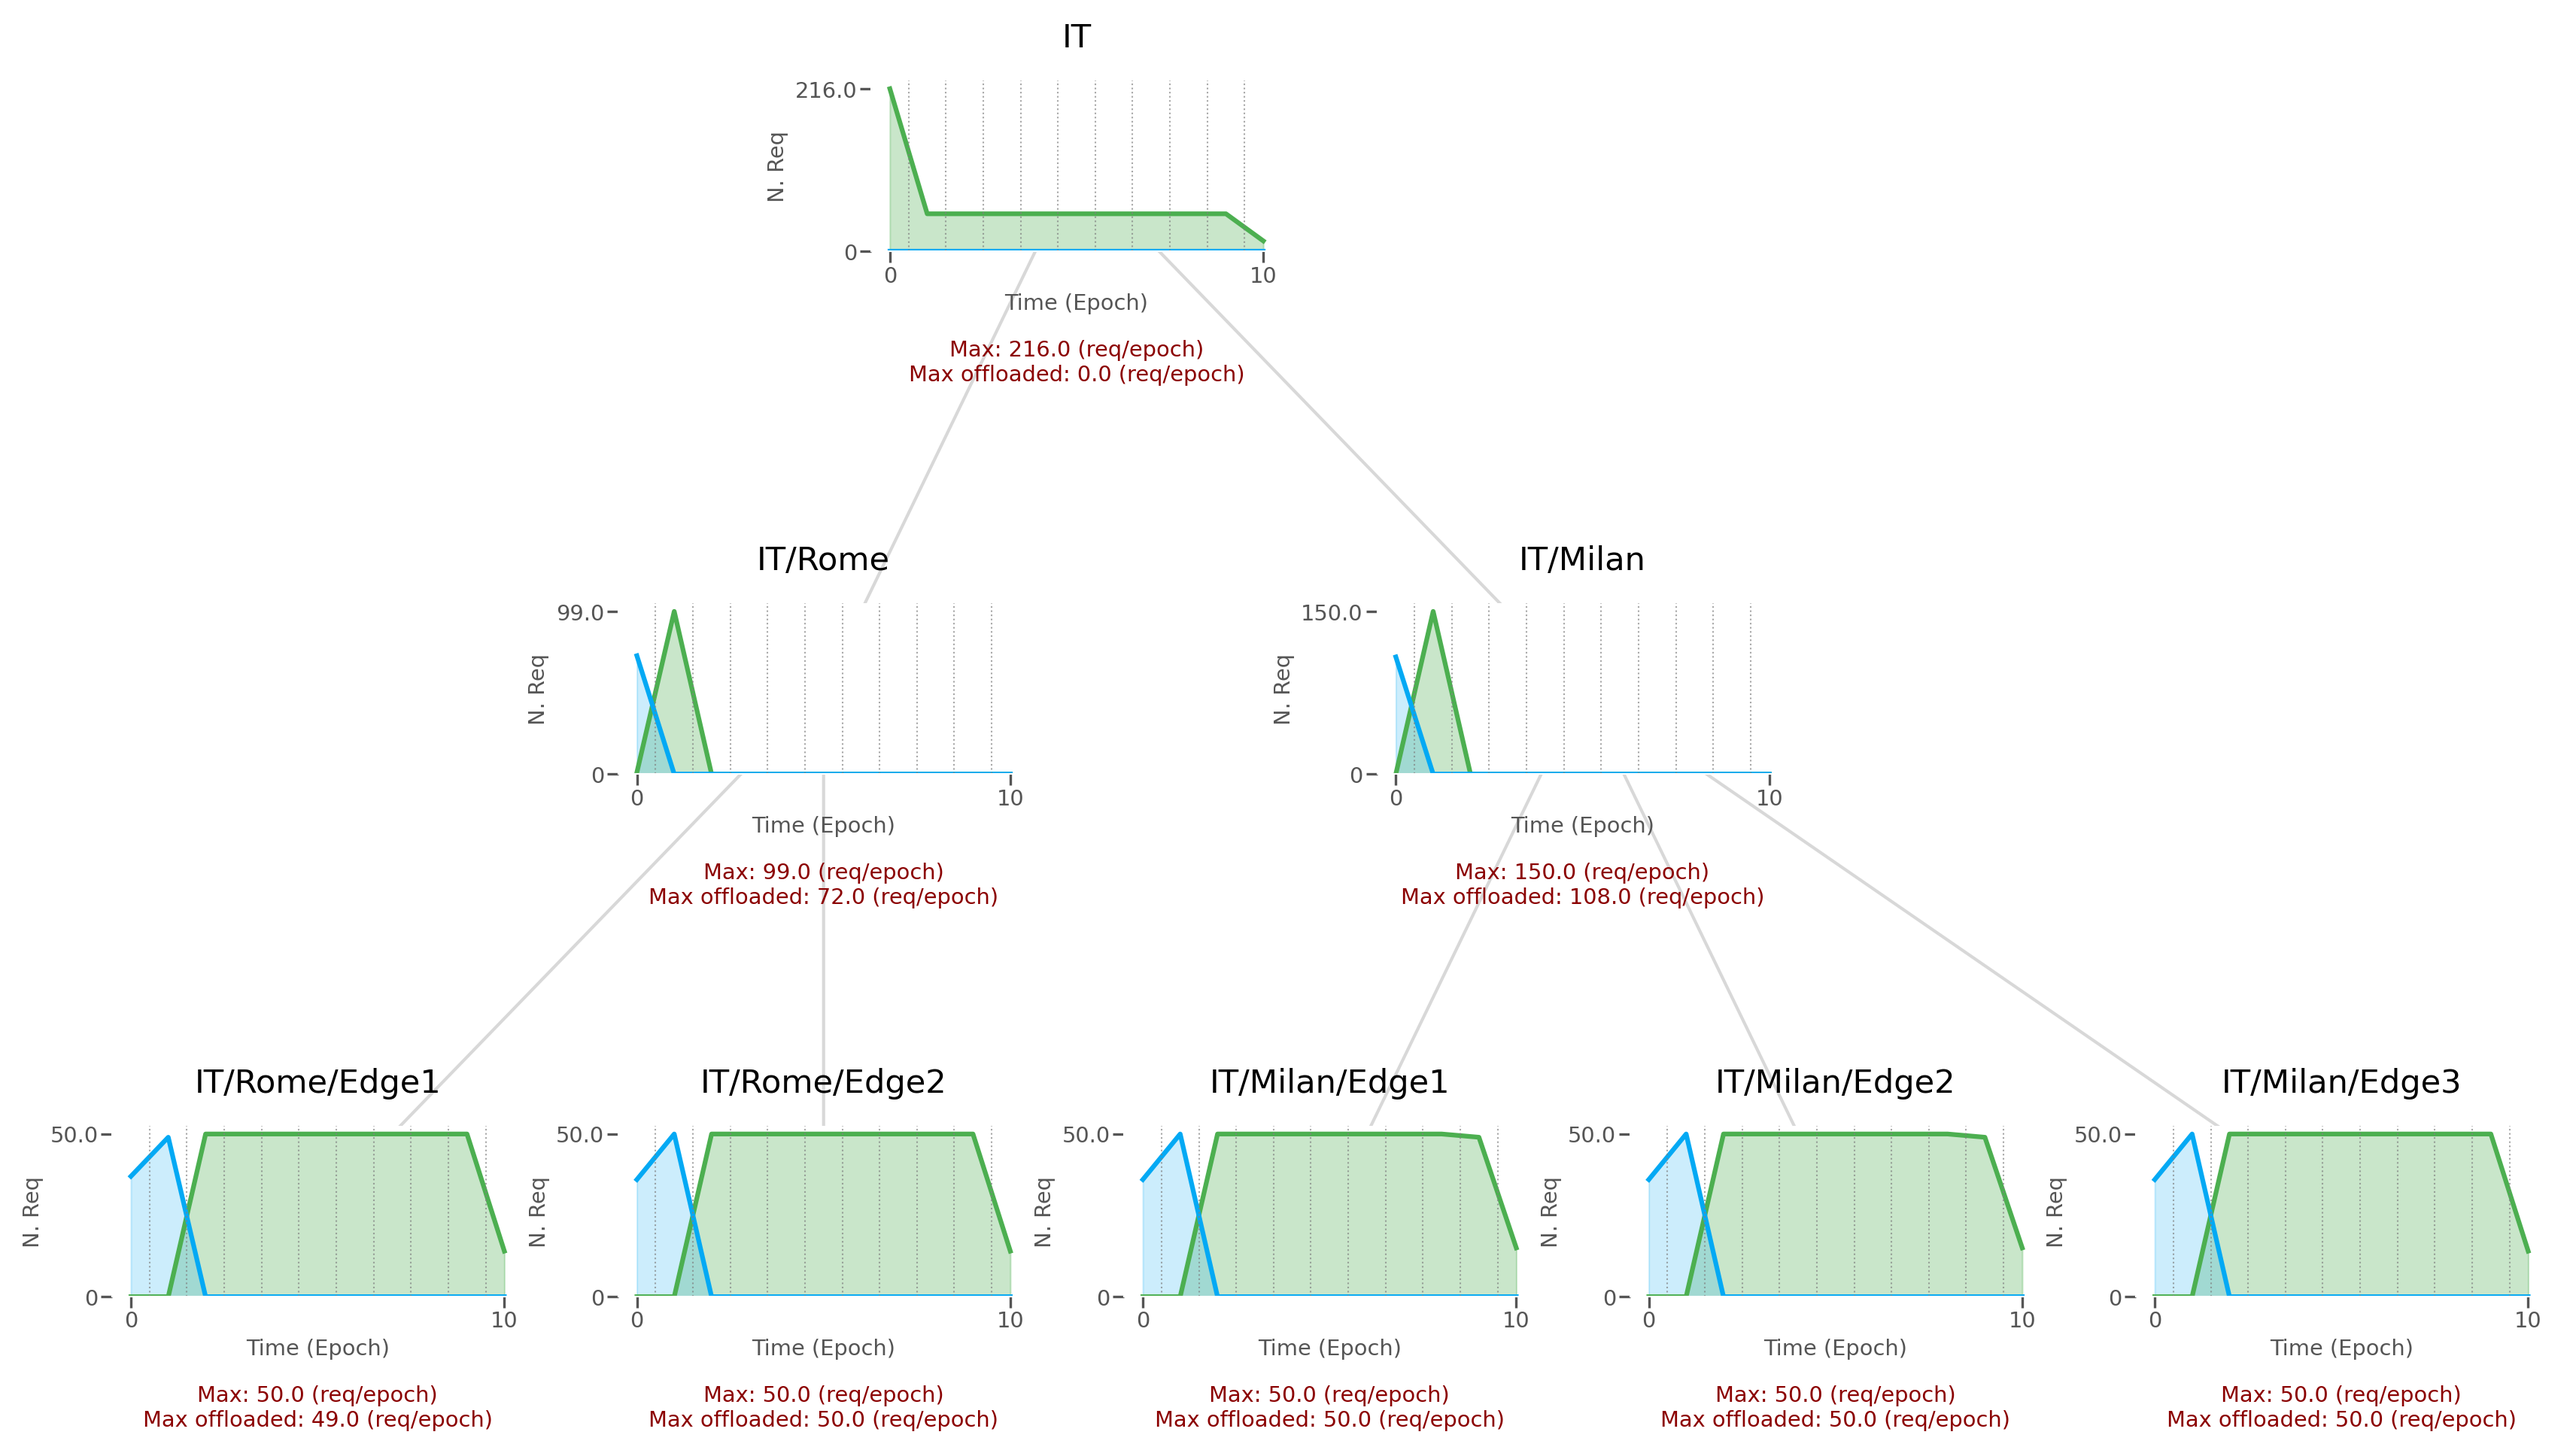
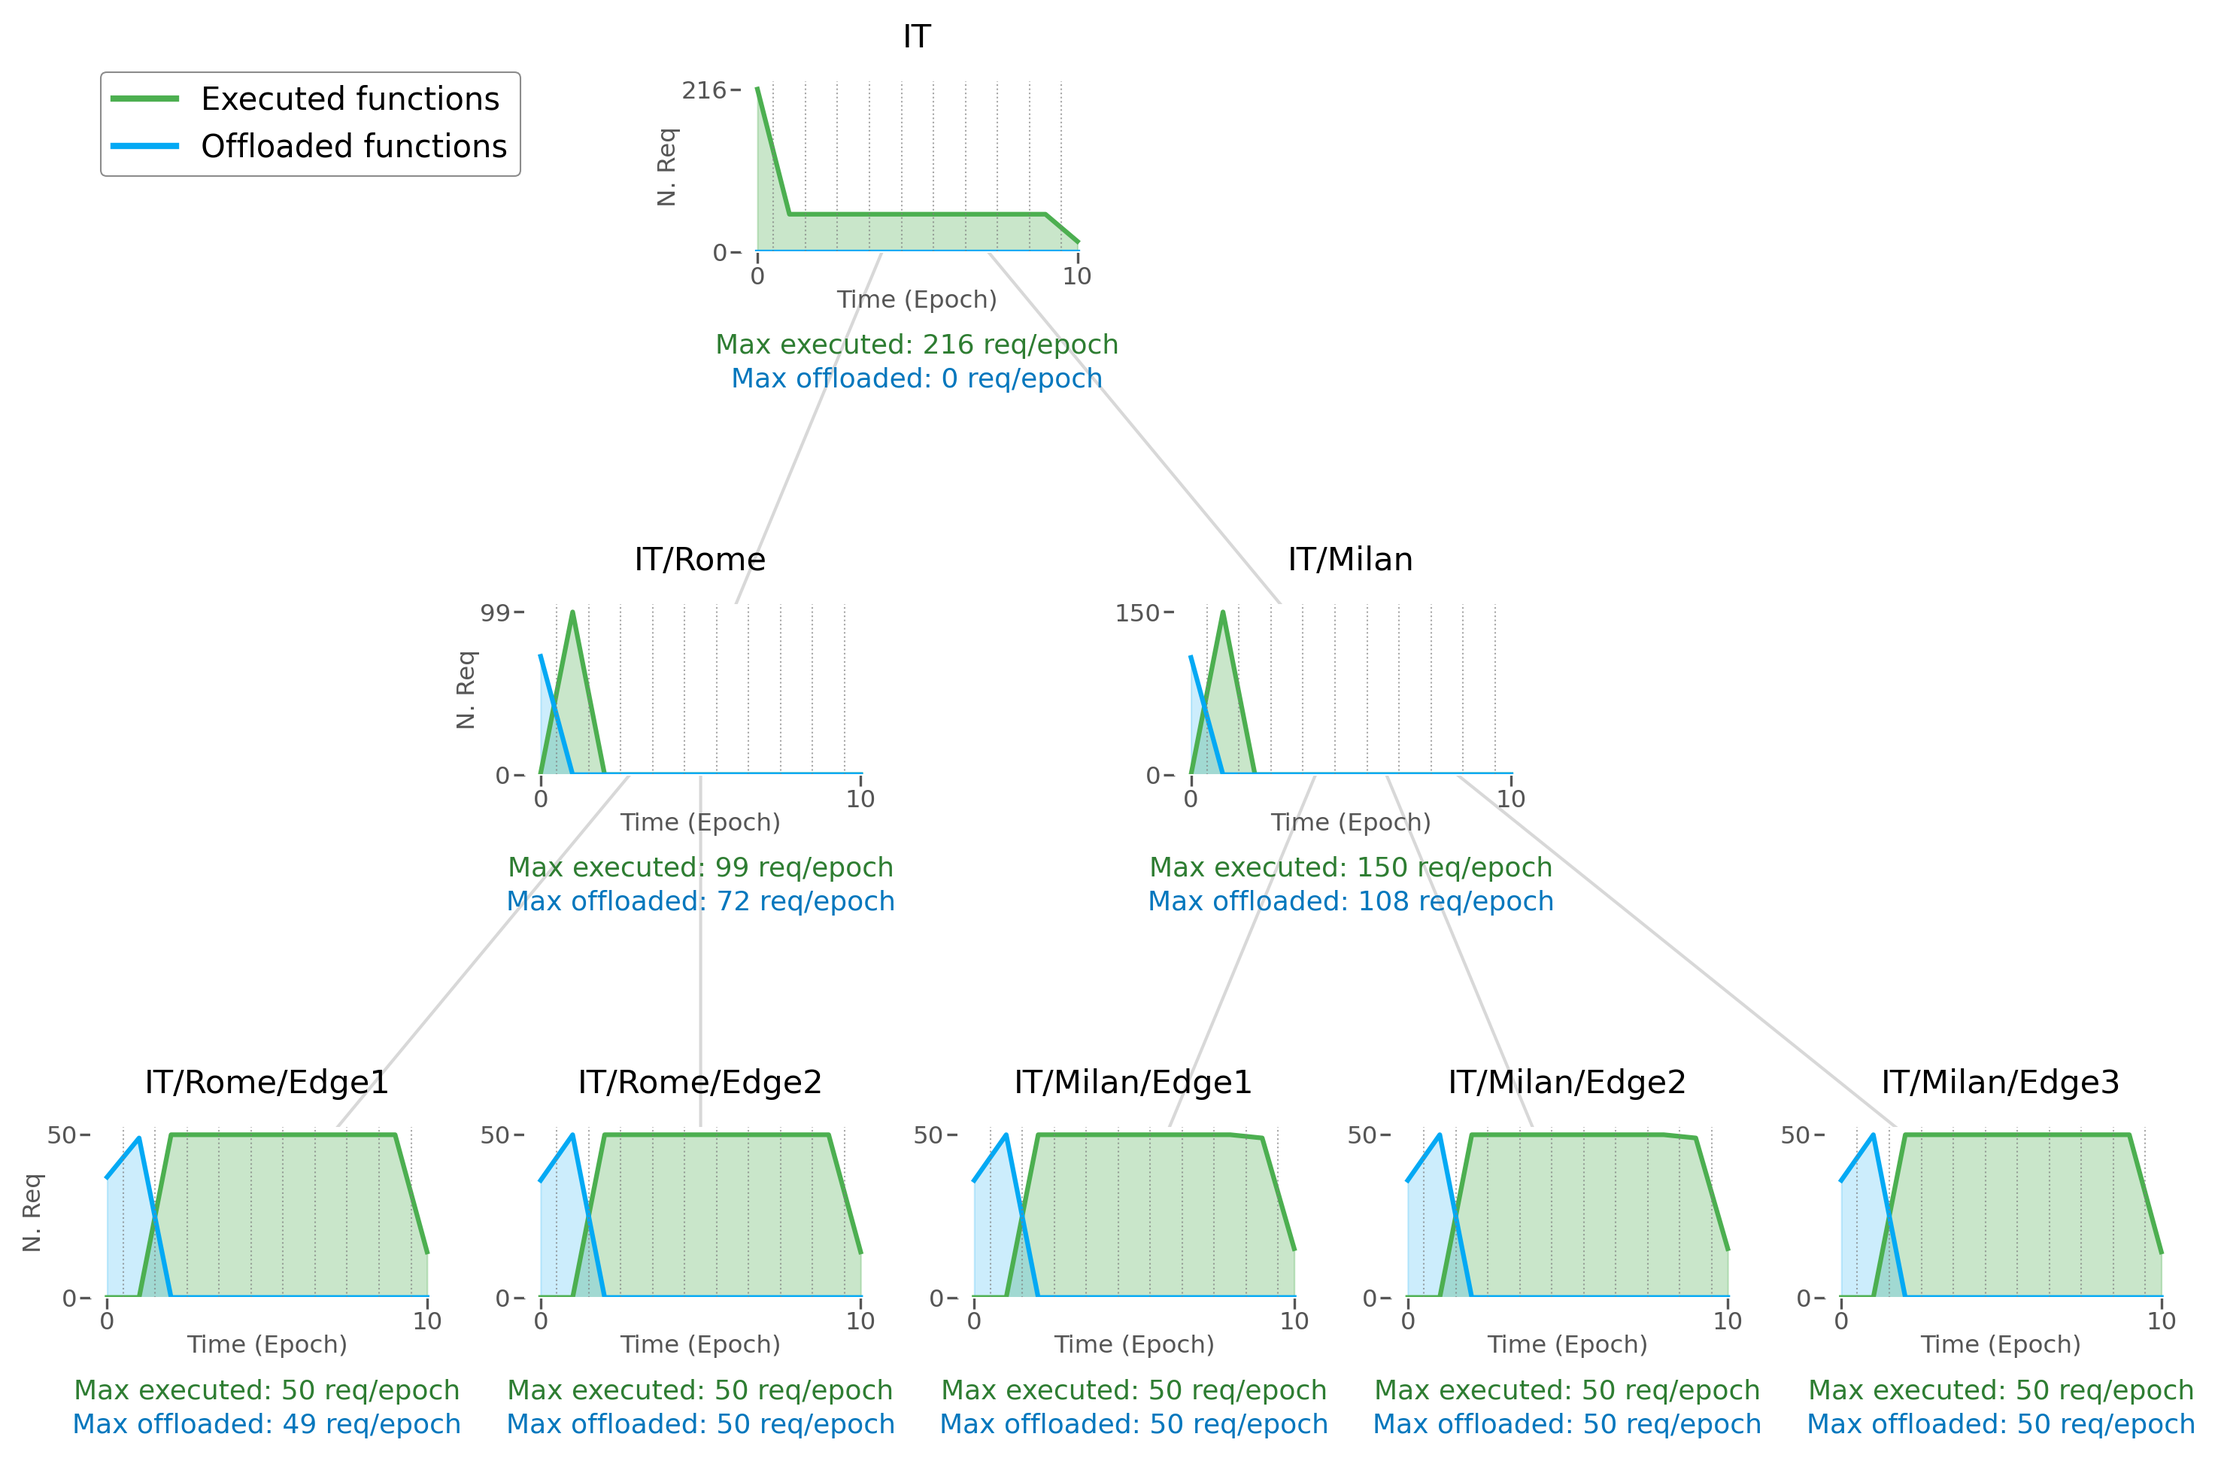
Improve tree plot

diff --git a/ermes_benchmark/convergence_test/code/plots/topology.py b/ermes_benchmark/convergence_test/code/plots/topology.py
@@ -1,9 +1,12 @@
-import pandas as pd
-import numpy as np
-import networkx as nx
-import matplotlib.pyplot as plt
 import itertools
 from collections import defaultdict
+
+import matplotlib.pyplot as plt
+import networkx as nx
+import numpy as np
+import pandas as pd
+from matplotlib.lines import Line2D
+
 
 def compute_path(tree: dict, start_node: int, end_node: int) -> list[int]:
     G = nx.Graph()  # undirected graph
@@ -17,8 +20,8 @@ def compute_path(tree: dict, start_node: int, end_node: int) -> list[int]:
     except (nx.NetworkXNoPath, nx.NodeNotFound):
         return []
 
-def plot_tree_with_sparklines(tree: dict, domains: dict, dfs: list[pd.DataFrame], normalization: int):
 
+def plot_tree_with_sparklines(tree: dict, domains: dict, dfs: list[pd.DataFrame], normalization: int):
     # --- 1. Pre-elaborazione Dati per Sparklines ---
     try:
         df_combined = pd.concat(dfs, ignore_index=True)
@@ -33,7 +36,7 @@ def plot_tree_with_sparklines(tree: dict, domains: dict, dfs: list[pd.DataFrame]
     except Exception as e:
         print(f"Errore nella pulizia degli host: assicurati che siano presenti etichette numeriche. {e}")
         return
-        
+
     all_nodes = df_combined['ExecHost'].str.split('.').str[-1].str.split(':').str[0].astype(int).unique()
     all_groups = df_combined['Group'].unique()
 
@@ -58,10 +61,10 @@ def plot_tree_with_sparklines(tree: dict, domains: dict, dfs: list[pd.DataFrame]
 
     # Riempie i valori mancanti con 0
     task_counts['TaskCount'] = task_counts['TaskCount'].fillna(0).astype(int)
-    task_counts['TaskCount'] = task_counts['TaskCount'] / normalization # Normalizzazione
-    
-    paths = defaultdict(list)   
-    
+    task_counts['TaskCount'] = task_counts['TaskCount'] / normalization  # Normalizzazione
+
+    paths = defaultdict(list)
+
     # Calcola i percorsi unici tra nodi di Entry e nodi di Exec
     for _, row in df_combined.iterrows():
         entry_node = row['Node_Entry']
@@ -73,16 +76,16 @@ def plot_tree_with_sparklines(tree: dict, domains: dict, dfs: list[pd.DataFrame]
             continue
 
         if (entry_node, exec_node) not in paths:
-            paths[(entry_node,exec_node)]= compute_path(tree, entry_node, exec_node)
+            paths[(entry_node, exec_node)] = compute_path(tree, entry_node, exec_node)
 
-        path = paths[(entry_node,exec_node)]
+        path = paths[(entry_node, exec_node)]
         for node in path:
             if node == short_exec_host:
                 continue
             mask = (task_counts['Node'] == node) & (task_counts['Group'] == group)
             task_counts.loc[mask, 'indirectLoad'] = task_counts.loc[mask, 'indirectLoad'] + 1
 
-    task_counts['indirectLoad'] = task_counts['indirectLoad'] / normalization # Normalizzazione
+    task_counts['indirectLoad'] = task_counts['indirectLoad'] / normalization  # Normalizzazione
 
     sparkline_data = task_counts.pivot_table(
         index='Node',
@@ -94,10 +97,10 @@ def plot_tree_with_sparklines(tree: dict, domains: dict, dfs: list[pd.DataFrame]
     sparkline_data = sparkline_data.reindex(sorted(sparkline_data.columns), axis=1)
     max_count = sparkline_data.values.max()
     if max_count == 0:
-        max_count = 1 
-    
-    # --- 2. Creazione del Grafo e Posizionamento ---
-    
+        max_count = 1
+
+        # --- 2. Creazione del Grafo e Posizionamento ---
+
     G = nx.DiGraph()
     for parent, children in tree.items():
         for child in children:
@@ -118,28 +121,28 @@ def plot_tree_with_sparklines(tree: dict, domains: dict, dfs: list[pd.DataFrame]
         pos = {node: (x, -y) for node, (x, y) in pos.items()}
 
     # --- 3. Disegno del Grafico e delle Sparklines ---
-    
+
     fig_scale = 1.3
     num_nodes = G.number_of_nodes()
-    
-    fig_width = max(14, num_nodes * 0.4 * fig_scale)
+
+    fig_width = max(12, num_nodes * 0.4 * fig_scale)
     fig_height = max(6, num_nodes * 0.7 * fig_scale)
     fig_size = (fig_width, fig_height)
 
-    fig = plt.figure(figsize=fig_size) 
-    plt.subplots_adjust(wspace=3) #spazio tra subplots
+    fig = plt.figure(figsize=fig_size)
+    plt.subplots_adjust(wspace=3)  # spazio tra subplots
     ax = plt.gca()
-    ax.set_axis_off() 
+    ax.set_axis_off()
 
     # 3.1 Disegna gli archi
     nx.draw_networkx_edges(G, pos, ax=ax, edge_color='gray', width=1, alpha=0.3)
-    
+
     num_groups = len(sparkline_data.columns)
     x_group_indices = np.arange(num_groups)
 
     x_label = "Time (Epoch)"
     y_label = "N. Req per experiment"
-    
+
     for node in G.nodes():
 
         # --- TaskCount verde ---
@@ -196,19 +199,21 @@ def plot_tree_with_sparklines(tree: dict, domains: dict, dfs: list[pd.DataFrame]
 
         spark_ax.set_xticks([0, num_groups - 1])
         spark_ax.set_xticklabels([sparkline_data.columns.min(), sparkline_data.columns.max()])
-        spark_ax.set_xlabel("Time (Epoch)", fontsize=8 * fig_scale / 1.5, labelpad=2)
+        spark_ax.set_xlabel("Time (Epoch)", fontsize=9 * fig_scale / 1.5, labelpad=0)
 
         # Y-axis scaling: massimo tra TaskCount e indirectLoad
         local_max = max(max_tasks_in_round, max_indirect, 1)
         spark_ax.set_yticks([0, local_max])
-        spark_ax.set_yticklabels([0, local_max])
-        spark_ax.set_ylabel("N. Req", fontsize=8 * fig_scale / 1.5, rotation=90, labelpad=2)
+        spark_ax.set_yticklabels([0, str(int(local_max))])
+
+        if node == 57 or node == 55 or node == 50:
+            spark_ax.set_ylabel("N. Req", fontsize=9 * fig_scale / 1.5, rotation=90, labelpad=0)
 
         spark_ax.spines['top'].set_visible(False)
         spark_ax.spines['right'].set_visible(False)
         spark_ax.spines['left'].set_linewidth(0.5)
         spark_ax.spines['bottom'].set_linewidth(0.5)
-        spark_ax.tick_params(axis='both', which='major', labelsize=8 * fig_scale / 1.5, pad=1)
+        spark_ax.tick_params(axis='both', which='major', labelsize=9 * fig_scale / 1.5, pad=1)
 
         spark_ax.set_ylim(0, local_max * 1.05)
         spark_ax.set_xlim(-0.5, num_groups - 0.5)
@@ -224,15 +229,43 @@ def plot_tree_with_sparklines(tree: dict, domains: dict, dfs: list[pd.DataFrame]
             color='black'
         )
 
-        # Etichetta Max TaskCount / indirectLoad
+        # Riga 1: Executed (Verde)
         spark_ax.text(
-            0.5, -0.65,
-            f"Max: {max_tasks_in_round} (req/epoch)\nMax offloaded: {max_indirect} (req/epoch)",
+            0.5, -0.55, # Posizione verticale riga 1
+            f"Max executed: {int(max_tasks_in_round)} req/epoch",
             transform=spark_ax.transAxes,
             ha='center', va='center',
-            fontsize=8 * fig_scale / 1.5,
-            color='darkred',
-            # fontweight='bold'
+            fontsize=10 * fig_scale / 1.5,
+            color='#2E7D32', # Un verde scuro leggibile
+        )
+
+        # Riga 2: Offloaded (Azzurro scuro)
+        spark_ax.text(
+            0.5, -0.75, # Posizione verticale riga 2 (sotto la prima)
+            f"Max offloaded: {int(max_indirect)} req/epoch",
+            transform=spark_ax.transAxes,
+            ha='center', va='center',
+            fontsize=10 * fig_scale / 1.5,
+            color='#0277BD', # Un azzurro scuro leggibile
+        )
+        # --- 4. Aggiunta della Legenda Globale ---
+
+        # Creiamo handle manuali per la legenda usando i colori definiti nel loop
+        legend_elements = [
+            Line2D([0], [0], color='#4CAF50', lw=2, label='Executed functions'),
+            Line2D([0], [0], color='#03A9F4', lw=2, label='Offloaded functions')
+        ]
+
+        # Aggiungiamo la legenda all'asse principale (che è "off", ma la legenda sarà visibile)
+        # Posizioniamo la legenda in alto a sinistra (o dove preferisci, es. 'upper right')
+        ax.legend(
+            handles=legend_elements,
+            loc='upper left',
+            fontsize=10 * fig_scale / 1.3,
+            frameon=True,
+            facecolor='white',
+            edgecolor='gray',
+            framealpha=0.9
         )
 
     return fig

diff --git a/ermes_benchmark/convergence_test/code/main.py b/ermes_benchmark/convergence_test/code/main.py
@@ -207,7 +207,7 @@ def main():
     fig_tree = topology.plot_tree_with_sparklines(config.tree, config.domains, full_dfs, num_files)
     if fig_tree:
         fig_tree.savefig(f'{output_dir}/tree_with_sparklines.png', dpi=300, bbox_inches='tight')
-        fig_tree.savefig(f'{output_dir}/pdf/tree_with_sparklines.pdf')
+        fig_tree.savefig(f'{output_dir}/pdf/tree_with_sparklines.pdf', bbox_inches='tight')
         plt.close(fig_tree)
 
     print(f"All processing complete. Outputs saved to: {output_dir}")
